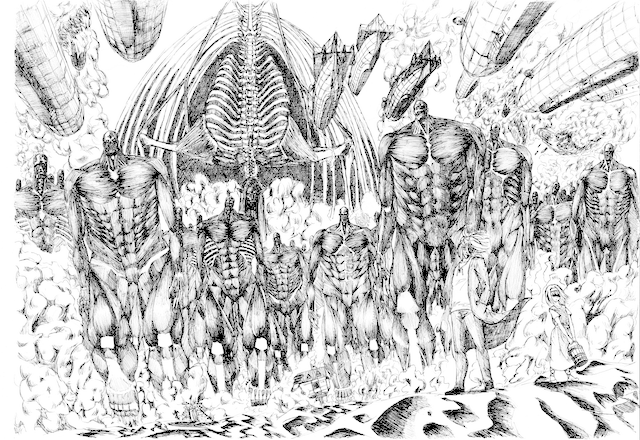
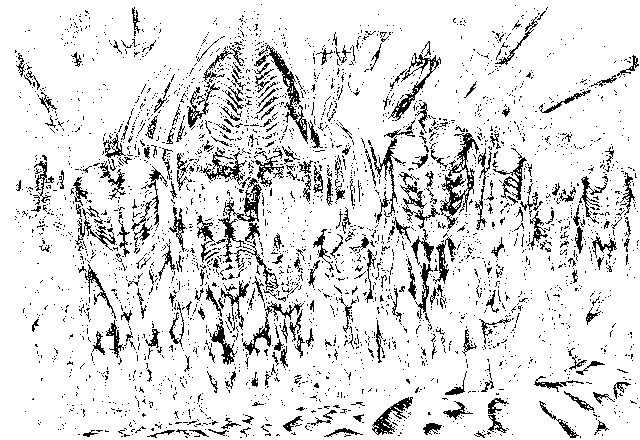
final

diff --git a/funciones.py b/funciones.py
@@ -1,4 +1,5 @@
 import matplotlib.pyplot as plt
+import math
 import numpy as np
 import cv2
 
@@ -90,14 +91,15 @@ def FP_Exp_Osc(M1, args=1):
 
 
 # Filtro sigmoide seno (Revisar)
-def FP_Sigmoid_Sin(M1, args=(10, 0.5)):
-    a, b = args
-    return FP_iter(M1, lambda x: _lambda * (1 / (1 + np.exp(-a * (np.sin(b * (x / 255) - np.pi / 2))))))
+def FP_Sigmoid_Sin(M1, args=.2):
+    a= args
+    M2 = FP_iter(M1, lambda x: 1/(1 + np.exp(-(math.sinh(x)**a))))
+    return normalize(M2)
 
 # Filtro sigmoide tangente hiperbólica. (Revisar)
-def FP_Sigmoid_Tanh(M1, args=(5, 0.5)):
-    a, b = args
-    return FP_iter(M1, lambda x: _lambda * (1 / (1 + np.exp(-a * np.tanh(b * (x / 255 - 0.5))))))
+def FP_Sigmoid_Tanh(M1, args=.2):
+    a = args
+    return FP_iter(M1, lambda x: (_lambda/2) * (1 + np.tanh(a * (x - _lambda / 2))))
 
 # 3. Ecualizacion por histograma (Revisar)
 def histogram_equalization(M1):

diff --git a/app.py b/app.py
@@ -106,6 +106,8 @@ filtro_puntual.add_cascade(label="Aclarado Exponencial", menu=expa)
 filtro_puntual.add_cascade(label="Binario", menu=binario)
 filtro_puntual.add_cascade(label="Binario Inverso", menu=binario_inverso)
 
+filtro_puntual.add_command(label="Sigmoidal Seno", command=lambda: (write_image(FP_Sigmoid_Sin(imagen)), show_confirmacion1()))
+filtro_puntual.add_command(label="Sigmoidal Tanh", command=lambda: (write_image(FP_Sigmoid_Tanh(imagen)), show_confirmacion1()))
 
 equal_hist = Menu(filtro_puntual, tearoff=0)
 
